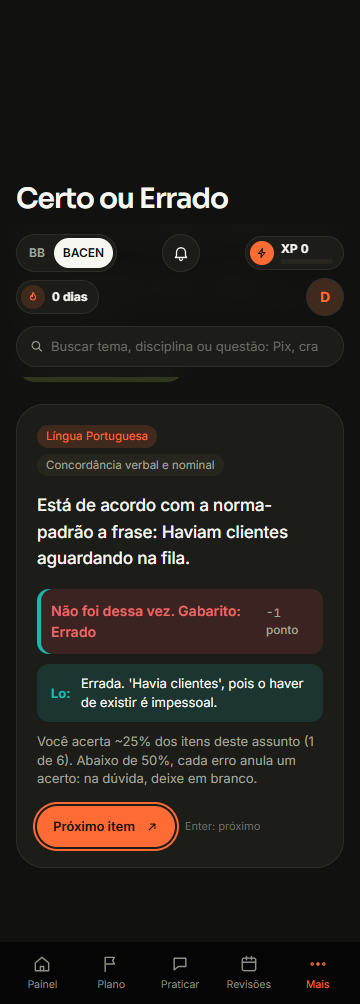
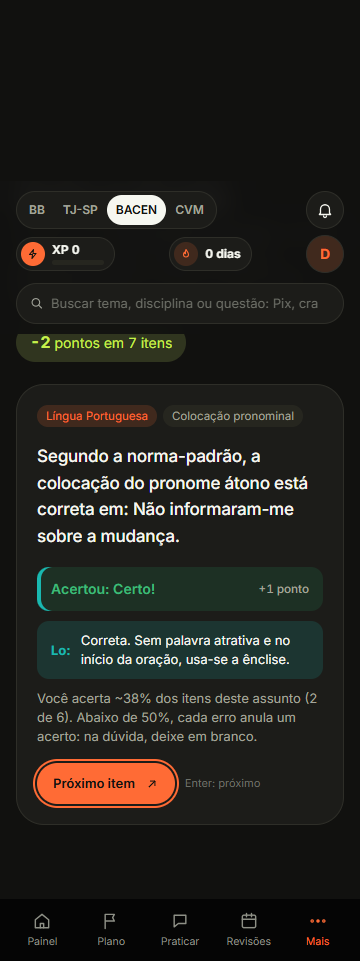
feat(concursos): abas TJ-SP (Escrevente) e CVM (Agente Executivo); lista única de concursos
IDS_CONCURSO em shared/concursos.ts: schemas (Topic, Question, ItemCE, Attempt, Rating,
Simulado, User), cabeçalho X-Concurso, abas e demo leem dela. data/concursos/tjsp.json
(Vunesp, 100 questões, 5 h; cota por matéria pendente: edital fora do acervo) e cvm.json
(banca a definir, referência FGV: Módulo I do CVM 2024). 8 matérias novas. Aba sem
matérias mostra o aviso de conteúdo chegando. e2e-concurso confere as 4 abas e espera a
carga inicial antes de trocar (corrige corrida no celular).

diff --git a/src/models.ts b/src/models.ts
@@ -9,6 +9,7 @@ export const INDICE_VETORIAL = () => process.env.VECTOR_INDEX || "chunks_vector"
 // 1. TÓPICOS — o mapa do edital. Tudo gira em torno disso.
 // ------------------------------------------------------------
 import { DISCIPLINAS, LETRAS, MOTIVOS_ERRO, type Disciplina, type Letra } from "../shared/tipos.js";
+import { IDS_CONCURSO } from "../shared/concursos.js";
 export { DISCIPLINAS, LETRAS, type Disciplina, type Letra };
 
 // Matérias normativas: só geram questão nova com fonte primária por trás.
@@ -31,7 +32,7 @@ const TopicSchema = new Schema(
     volatil: { type: Boolean, default: false },
     ativo: { type: Boolean, default: true },
     // disciplina compartilhada = um tópico só, ligado aos dois concursos (a migração põe ["bb"] nos atuais)
-    concursos: { type: [{ type: String, enum: ["bb", "bacen"] }], default: undefined, index: true },
+    concursos: { type: [{ type: String, enum: IDS_CONCURSO }], default: undefined, index: true },
     embedding: { type: [Number], select: false }, // usado para classificar trechos e questões
   },
   { timestamps: true }
@@ -110,7 +111,7 @@ const QuestionSchema = new Schema(
     origem: { type: String, enum: ["oficial", "gerada"], required: true },
     estiloBanca: { type: String, default: "cesgranrio" },
     // concurso e banca como dado (BB + BACEN): a migração preenche as antigas (BB, Cesgranrio, múltipla escolha)
-    concursos: { type: [{ type: String, enum: ["bb", "bacen"] }], default: undefined, index: true },
+    concursos: { type: [{ type: String, enum: IDS_CONCURSO }], default: undefined, index: true },
     banca: { type: String, enum: ["cesgranrio", "cebraspe", "fgv", "fcc", "vunesp"] }, // oficial: a banca da prova
     formato: { type: String, enum: ["multipla", "certo_errado"] },
     derivadaDe: { type: Schema.Types.ObjectId, ref: "Question" }, // item C/E montado de uma múltipla escolha
@@ -293,7 +294,7 @@ const AttemptSchema = new Schema(
     simuladoId: String,
     motivoErro: { type: String, enum: MOTIVOS_ERRO }, // informado pelo aluno depois do erro
     // em que concurso/banca a resposta foi dada (Elo e Desempenho por concurso); antigas = BB/Cesgranrio
-    concurso: { type: String, enum: ["bb", "bacen"] },
+    concurso: { type: String, enum: IDS_CONCURSO },
     banca: String,
   },
   { timestamps: true }
@@ -459,7 +460,7 @@ const RatingAlunoSchema = new Schema(
   {
     userId: { type: Schema.Types.ObjectId, ref: "User", required: true },
     // Elo do aluno por concurso + banca + disciplina (a migração preenche as antigas com BB/Cesgranrio)
-    concurso: { type: String, enum: ["bb", "bacen"], default: "bb" },
+    concurso: { type: String, enum: IDS_CONCURSO, default: "bb" },
     banca: { type: String, default: "cesgranrio" },
     disciplina: { type: String, enum: DISCIPLINAS, required: true },
     rating: { type: Number, required: true },
@@ -478,7 +479,7 @@ const SimuladoSchema = new Schema(
     _id: { type: String, required: true },
     userId: { type: Schema.Types.ObjectId, ref: "User", required: true, index: true },
     data: { type: Date, required: true },
-    concurso: { type: String, enum: ["bb", "bacen"], default: "bb" },
+    concurso: { type: String, enum: IDS_CONCURSO, default: "bb" },
     banca: { type: String, default: "cesgranrio" },
     diagnostico: { type: Boolean, default: false },
     tamanho: Number,
@@ -534,7 +535,7 @@ const ItemCESchema = new Schema(
   {
     topicId: { type: Schema.Types.ObjectId, ref: "Topic", required: true, index: true },
     subtopico: { type: String, index: true },
-    concursos: { type: [{ type: String, enum: ["bb", "bacen"] }], default: undefined, index: true },
+    concursos: { type: [{ type: String, enum: IDS_CONCURSO }], default: undefined, index: true },
     banca: { type: String, enum: ["cesgranrio", "cebraspe", "fgv", "fcc", "vunesp"] }, // oficial: da prova
     origem: { type: String, enum: ["oficial", "derivada", "cursinho"], required: true },
     camada: { type: String, enum: ["A", "B", "C"] },
@@ -569,7 +570,7 @@ const RespostaCESchema = new Schema(
     subtopico: String,
     resposta: { type: String, enum: ["C", "E", null], default: null },
     acertou: { type: Boolean, default: null }, // null = em branco
-    concurso: { type: String, enum: ["bb", "bacen"] },
+    concurso: { type: String, enum: IDS_CONCURSO },
     banca: String,
     tempoSeg: Number,
   },
@@ -742,7 +743,7 @@ const UserSchema = new Schema(
     ultimoLogin: Date,
     // concurso ativo (abas BB / BACEN) e, por concurso, a banca e a área escolhidas ("a_definir" = referência)
     preferencias: {
-      concursoAtivo: { type: String, enum: ["bb", "bacen"], default: "bb" },
+      concursoAtivo: { type: String, enum: IDS_CONCURSO, default: "bb" },
       bancas: { type: Map, of: String, default: undefined },
       areas: { type: Map, of: String, default: undefined },
     },

diff --git a/shared/tipos.ts b/shared/tipos.ts
@@ -3,6 +3,7 @@
 // ============================================================
 import type { DesempenhoTemaDTO } from "./desempenhoTema.js";
 import type { ResumoSimulado } from "./simulados.js";
+import type { IdConcurso } from "./concursos.js";
 export type { DesempenhoTemaDTO, ResumoSimulado };
 
 export const DISCIPLINAS = [
@@ -21,6 +22,16 @@ export const DISCIPLINAS = [
   "direito_administrativo",
   "gestao_publica",
   "suporte_tecnico_administrativo",
+  // TJ-SP Escrevente (data/concursos/tjsp.json)
+  "direito_penal",
+  "direito_processual_penal",
+  "direito_processual_civil",
+  "normas_corregedoria",
+  "atualidades",
+  // CVM Agente Executivo (data/concursos/cvm.json)
+  "mercado_valores_mobiliarios",
+  "fundamentos_direito",
+  "fluencia_dados",
 ] as const;
 export type Disciplina = (typeof DISCIPLINAS)[number];
 
@@ -39,6 +50,14 @@ export const NOME_DISCIPLINA: Record<Disciplina, string> = {
   direito_administrativo: "Direito Administrativo",
   gestao_publica: "Gestão Pública",
   suporte_tecnico_administrativo: "Suporte Técnico-Administrativo",
+  direito_penal: "Direito Penal",
+  direito_processual_penal: "Direito Processual Penal",
+  direito_processual_civil: "Direito Processual Civil",
+  normas_corregedoria: "Normas da Corregedoria Geral da Justiça",
+  atualidades: "Atualidades",
+  mercado_valores_mobiliarios: "Mercado de Valores Mobiliários",
+  fundamentos_direito: "Fundamentos de Direito",
+  fluencia_dados: "Fluência em Dados",
 };
 
 export const LETRAS = ["A", "B", "C", "D", "E"] as const;
@@ -548,7 +567,7 @@ export type MotivoContestacao = "gabarito_errado" | "duas_corretas" | "desatuali
 
 // Concursos (F5): banca em uso (ou a de referência, se "a definir") e área de cada um
 export interface ConcursoInfoDTO {
-  id: "bb" | "bacen";
+  id: IdConcurso;
   nome: string;
   cargo: string | null;
   banca: string; // id da banca ou "a_definir"

diff --git a/web/src/telas/Painel.tsx b/web/src/telas/Painel.tsx
@@ -13,9 +13,10 @@ import { Ilustracao } from "../componentes/Ilustracoes";
 import { ICheck, IDir, IEsq, ISeta, IFolha } from "../componentes/Icones";
 import { COR_DISC, CURTO, SIGLA, diasAte, pct } from "../util";
 import { Pose } from "../componentes/Pose";
+import { CONCURSOS, SIGLA_CONCURSO } from "../../../shared/concursos";
 
 export function Painel() {
-  const { painel, ajustes, ir, usuario, api } = useApp();
+  const { painel, ajustes, ir, usuario, api, concurso } = useApp();
   // 1ª visita depois de entrar (por conta; sem conta, por navegador): o Binho acena uma vez
   const chaveVisita = `lobo-boas-vindas-${usuario?.email ?? "local"}`;
   const [primeiraVisita] = useState(() => {
@@ -81,6 +82,11 @@ export function Painel() {
             {faltam !== null && faltam >= 0 && <> Faltam <b className="num">{faltam}</b> dias para a prova.</>}
             {plano?.totalSemanas && <> <button className="link" onClick={() => ir("plano")}>Semana <b className="num">{plano.semanaAtual}</b> de <b className="num">{plano.totalSemanas}</b></button></>}
           </p>
+          {!painel.topicos.length && (
+            <p className="aviso-concurso-vazio" role="note" data-testid="concurso-sem-conteudo">
+              <b>{SIGLA_CONCURSO[concurso]}: as matérias ainda estão chegando.</b> O {CONCURSOS[concurso].nome} ({CONCURSOS[concurso].cargo}) entra com o material de estudo; enquanto isso, as outras abas seguem normais.
+            </p>
+          )}
         </div>
         <button className="botao-laranja botao-grande" onClick={() => (temaHoje ? estudarTemaDoDia() : ir("praticar", trilha?.modo === "domingo" ? { revisao: true } : {}))}>
           <span aria-hidden="true">▶</span> {trilha?.modo === "domingo" && !temaHoje ? "Domingo: revisões e erros" : n > 0 ? "Continuar estudando" : "Começar agora"}

diff --git a/shared/concursos.ts b/shared/concursos.ts
@@ -2,13 +2,17 @@
 // O BB é o padrão de hoje e a estrutura dele é a mesma de antes (estruturaProva.ts lê o bb.json).
 import bb from "../data/concursos/bb.json" with { type: "json" };
 import bacen from "../data/concursos/bacen.json" with { type: "json" };
+import tjsp from "../data/concursos/tjsp.json" with { type: "json" };
+import cvm from "../data/concursos/cvm.json" with { type: "json" };
 import cesgranrio from "../data/bancas/cesgranrio.json" with { type: "json" };
 import cebraspe from "../data/bancas/cebraspe.json" with { type: "json" };
 import fgv from "../data/bancas/fgv.json" with { type: "json" };
 import fcc from "../data/bancas/fcc.json" with { type: "json" };
 import vunesp from "../data/bancas/vunesp.json" with { type: "json" };
 
-export type IdConcurso = "bb" | "bacen";
+// lista única dos concursos (abas, schemas, cabeçalho X-Concurso): concurso novo = uma linha aqui + o json dele
+export const IDS_CONCURSO = ["bb", "tjsp", "bacen", "cvm"] as const;
+export type IdConcurso = (typeof IDS_CONCURSO)[number];
 export type IdBanca = "cesgranrio" | "cebraspe" | "fgv" | "fcc" | "vunesp";
 export type FormatoItem = "multipla" | "certo_errado";
 // camada do material: A = prova oficial/gabarito definitivo/edital/lei vigente; B = material oficial; C = cursinho
@@ -34,7 +38,9 @@ export const BANCAS: Record<IdBanca, Banca> = {
   vunesp: vunesp as Banca,
 };
 
-export const CONCURSOS = { bb, bacen } as const;
+export const CONCURSOS = { bb, tjsp, bacen, cvm } as const;
+// nome curto da aba
+export const SIGLA_CONCURSO: Record<IdConcurso, string> = { bb: "BB", tjsp: "TJ-SP", bacen: "BACEN", cvm: "CVM" };
 export const CONCURSO_PADRAO: IdConcurso = "bb";
 
 // banca em uso num concurso: a escolhida pelo aluno; "a_definir" estuda no estilo da banca de referência

diff --git a/scripts/e2e-concurso.ts b/scripts/e2e-concurso.ts
@@ -1,5 +1,5 @@
 // E2E da F5 (abas BB/BACEN) no Edge, com a API simulada no próprio teste (nada toca no progresso real):
-// a aba BB vem marcada → clica BACEN → os pedidos seguintes vão com X-Concurso: bacen e a lista de tópicos
+// a aba BB vem marcada (as abas TJ-SP e CVM também existem) → clica BACEN → os pedidos seguintes vão com X-Concurso: bacen e a lista de tópicos
 // muda → recarregar a página mantém o BACEN → Ajustes mostra o BACEN "Em estudo" com o aviso da banca
 // de referência → "Estudar este" no BB volta para o BB. Prints 1440 e 360 em docs/telas/concurso/.
 // uso: npx tsx scripts/e2e-concurso.ts   (com o servidor "bb-web" :5182 de pé)
@@ -59,10 +59,13 @@ try {
     const bacen = p.locator("[data-testid=aba-bacen]");
     await bb.waitFor();
     assert.equal(await bb.getAttribute("aria-selected"), "true", "BB marcado de início");
+    assert.deepEqual(await p.locator(".seletor-concurso [role=tab]").allInnerTexts(), ["BB", "TJ-SP", "BACEN", "CVM"], "as quatro abas");
     await p.waitForFunction(() => document.body.innerText.includes("Vendas"));
     assert.ok(cabecalhos.some((c) => c.caminho === "/api/painel" && c.concurso === "bb"), "painel pedido com X-Concurso: bb");
 
-    // troca para o BACEN: pedidos novos com bacen e a matéria muda
+    // troca para o BACEN: pedidos novos com bacen e a matéria muda (espera a carga inicial acabar, senão um
+    // pedido do BB que começou antes do clique aparece depois dele)
+    await p.waitForLoadState("networkidle");
     const antes = cabecalhos.length;
     await bacen.click();
     await p.waitForFunction(() => document.querySelector("[data-testid=aba-bacen]")?.getAttribute("aria-selected") === "true");

diff --git a/web/src/util.ts b/web/src/util.ts
@@ -18,6 +18,14 @@ export const SIGLA: Record<Disciplina, string> = {
   direito_administrativo: "DA",
   gestao_publica: "GP",
   suporte_tecnico_administrativo: "ST",
+  direito_penal: "DP",
+  direito_processual_penal: "PP",
+  direito_processual_civil: "PC",
+  normas_corregedoria: "NC",
+  atualidades: "AT",
+  mercado_valores_mobiliarios: "MV",
+  fundamentos_direito: "FD",
+  fluencia_dados: "FL",
 };
 
 // Nome curto para os cartões (quebra em duas linhas, como no layout)
@@ -36,6 +44,14 @@ export const CURTO: Record<Disciplina, string> = {
   direito_administrativo: "Direito\nAdministrativo",
   gestao_publica: "Gestão\nPública",
   suporte_tecnico_administrativo: "Suporte\nTéc.-Adm.",
+  direito_penal: "Direito\nPenal",
+  direito_processual_penal: "Processo\nPenal",
+  direito_processual_civil: "Processo\nCivil",
+  normas_corregedoria: "Normas da\nCorregedoria",
+  atualidades: "Atualidades",
+  mercado_valores_mobiliarios: "Mercado de\nCapitais",
+  fundamentos_direito: "Fundamentos\nde Direito",
+  fluencia_dados: "Fluência\nem Dados",
 };
 
 export const COR_DISC: Record<Disciplina, string> = {
@@ -54,6 +70,15 @@ export const COR_DISC: Record<Disciplina, string> = {
   direito_administrativo: "#5ab4f0",
   gestao_publica: "#f5c542",
   suporte_tecnico_administrativo: "#e6e1d6",
+  // TJ-SP e CVM: mesma paleta, sem cor nova
+  direito_penal: "#f05a9a",
+  direito_processual_penal: "#f08a5a",
+  direito_processual_civil: "#59d1c4",
+  normas_corregedoria: "#e6e1d6",
+  atualidades: "#5ab4f0",
+  mercado_valores_mobiliarios: "#ff5b1f",
+  fundamentos_direito: "#8b7cf6",
+  fluencia_dados: "#4fc98a",
 };
 
 export const pct = (x: number) => `${Math.round(x * 100)}%`;

diff --git a/web/src/api/demo.ts b/web/src/api/demo.ts
@@ -38,7 +38,7 @@ import { ehDiagnostico, MISTURA_DIAGNOSTICO, PREFIXO_DIAGNOSTICO, ratingDoDiagno
 import { reprocessar, type EventoRating, pesoPorProximidade, ratingInicialQuestao, ALVO_ACIMA, RATING_ALUNO_INICIAL } from "../../../shared/rating";
 import { fatorNaoSabia, naoSabiaPorTopico, palavrasDecisivas, MENSAGEM_MOTIVO, REVISAO_CHUTE_MIN, TEMPO_ALVO_SEG } from "../../../shared/aprendizado";
 import { classificarPorCodigo, concursosDoTopico, SUBTOPICO_POR_ID } from "../../../shared/subtopicos";
-import { BANCAS, CONCURSOS, type IdBanca } from "../../../shared/concursos";
+import { BANCAS, CONCURSOS, IDS_CONCURSO, type IdBanca } from "../../../shared/concursos";
 import { corrigirCE, derivarItens, recomendarBranco } from "../../../shared/certoErrado";
 import { concursoAtivo } from "../concursoAtivo";
 import { concursosDoTema, linkYoutube, MINIMO_NOVAS, MISTAS_FIM, situacaoTrilha, tamanhoSessao, TRILHA, type InicioTrilha } from "../../../shared/trilha";
@@ -260,7 +260,7 @@ export const apiDemo: Api = {
 
   topicos: () => espera(topicosAtivos()),
 
-  concursos: () => espera((["bb", "bacen"] as const).map((id) => {
+  concursos: () => espera(IDS_CONCURSO.map((id) => {
     const j = CONCURSOS[id] as { nome: string; cargo?: string; bancaPadrao: string; bancaReferencia?: string; areas?: { id: string; nome: string }[] };
     const aDefinir = j.bancaPadrao === "a_definir";
     const emUso = aDefinir ? j.bancaReferencia ?? "cebraspe" : j.bancaPadrao;

diff --git a/src/server.ts b/src/server.ts
@@ -24,6 +24,7 @@ import { apiServidor } from "./estudo.js";
 import { garantirIndiceElo } from "./migracaoConcursos.js";
 import { caminhoMaterial } from "./temas.js";
 import { ajustarConcurso, carregarConfigConcursos, historicoConcursos, infoConcursos } from "./concursosConfig.js";
+import type { IdConcurso } from "../shared/concursos.js";
 import { DISCIPLINAS, LETRAS, MOTIVOS_ERRO, type Confianca, type Disciplina, type Letra, type Modo, type MotivoContestacao, type MotivoErro, type NotaCartao } from "../shared/tipos.js";
 
 const app = express();
@@ -143,7 +144,7 @@ app.post("/api/admin/concursos", rota(async (req, res) => {
   const campo = b.campo === "area" ? "area" : b.campo === "banca" ? "banca" : null;
   if (!campo) return res.status(400).json({ erro: "Campo inválido." });
   try {
-    const r = await ajustarConcurso(String(b.concurso) as "bb" | "bacen", campo, String(b.para ?? ""), String(b.motivo ?? ""), usuarioAtual()?.email ?? "dono");
+    const r = await ajustarConcurso(String(b.concurso) as IdConcurso, campo, String(b.para ?? ""), String(b.motivo ?? ""), usuarioAtual()?.email ?? "dono");
     res.json({ ...r, concursos: infoConcursos(), historico: historicoConcursos() });
   } catch (e) {
     res.status(400).json({ erro: (e as Error).message });

diff --git a/web/src/App.tsx b/web/src/App.tsx
@@ -1,5 +1,6 @@
 import { lazy, Suspense, useEffect, useMemo, useRef, useState, type ComponentType } from "react";
 import { useApp, type Tela } from "./estado";
+import { CONCURSOS, IDS_CONCURSO, SIGLA_CONCURSO } from "../../shared/concursos";
 import { Pose } from "./componentes/Pose";
 import {
   IAlvo, IBalao, IBandeira, ICalendario, ICartoes, ICasa, ICheck, IEngrenagem, IEscudo, IFogo, ILupa, IMais, IRaio, IRedacao, ISeta, ISino, ITrofeu,
@@ -230,9 +231,9 @@ function SeletorConcurso() {
   const { concurso, trocarConcurso } = useApp();
   return (
     <div className="seletor-concurso" role="tablist" aria-label="Concurso">
-      {(["bb", "bacen"] as const).map((c) => (
-        <button key={c} role="tab" aria-selected={concurso === c} className={concurso === c ? "ativo" : ""} onClick={() => trocarConcurso(c)} data-testid={`aba-${c}`}>
-          {c.toUpperCase()}
+      {IDS_CONCURSO.map((c) => (
+        <button key={c} role="tab" aria-selected={concurso === c} className={concurso === c ? "ativo" : ""} onClick={() => trocarConcurso(c)} data-testid={`aba-${c}`} title={`${CONCURSOS[c].nome}: ${CONCURSOS[c].cargo}`}>
+          {SIGLA_CONCURSO[c]}
         </button>
       ))}
     </div>

diff --git a/src/rating.ts b/src/rating.ts
@@ -5,6 +5,7 @@ import { Types } from "mongoose";
 import { Attempt, Question, RatingAluno, Topic } from "./models.js";
 import { dificuldadeDoRating, ratingInicialQuestao, reprocessar, RESPOSTAS_PARA_CALIBRAR } from "../shared/rating.js";
 import type { Confianca, Disciplina } from "../shared/tipos.js";
+import type { IdConcurso } from "../shared/concursos.js";
 
 // Recalcula tudo a partir das tentativas (idempotente: grava valores absolutos, não soma)
 export async function migrarRatings() {
@@ -23,7 +24,7 @@ export async function migrarRatings() {
     const [userId, concurso, banca, d] = chave.split("|");
     if (d === "?") continue;
     const disciplina = d as Disciplina;
-    await RatingAluno.updateOne({ userId: new Types.ObjectId(userId), concurso: concurso as "bb" | "bacen", banca, disciplina }, { $set: { rating: a.rating, n: a.n } }, { upsert: true });
+    await RatingAluno.updateOne({ userId: new Types.ObjectId(userId), concurso: concurso as IdConcurso, banca, disciplina }, { $set: { rating: a.rating, n: a.n } }, { upsert: true });
     alunos++;
   }
   return { tentativas: tents.length, questoes: global.questoes.size, alunos };

diff --git a/web/src/estilos.css b/web/src/estilos.css
@@ -1316,6 +1316,9 @@ h1, h2, h3, .marca, .titulo-tela { font-family: var(--fonte-titulo); }
 .ce-recomendacao-depois { margin: -6px 0 14px; color: var(--suave); font-size: 13px; max-width: 68ch; }
 .resultado-faixa.branco { background: var(--atencao-fundo); color: var(--atencao-texto); box-shadow: inset 4px 0 0 var(--lo); }
 .ce-filtro { margin: 6px 0 0; font-size: 14px; }
+/* aba de concurso ainda sem matérias (TJ-SP e CVM até o material chegar) */
+.aviso-concurso-vazio { margin: 12px 0 0; padding: 10px 14px; border-radius: 12px; max-width: 68ch; background: var(--binho-fundo); box-shadow: inset 4px 0 0 var(--binho); }
+.aviso-concurso-vazio b { color: var(--binho-texto); }
 .ce-placar { padding: 8px 14px; border-radius: 999px; background: var(--verde-fundo); color: var(--verde-texto); font-size: 14px; }
 .ce-placar b { font-size: 16px; }
 @media (max-width: 520px) { .ce-botoes button { flex: 1 1 100%; justify-content: center; } .ce-afirmacao { font-size: 17px; } }

diff --git a/src/ingestao.ts b/src/ingestao.ts
@@ -52,7 +52,7 @@ import {
 } from "./prompts.js";
 import { buscarFontesPorConsulta, geracoesHoje, tetoDiario } from "./pipeline.js";
 import { MOTIVOS_REPETICAO } from "./similaridade.js";
-import { BANCAS, type IdBanca } from "../shared/concursos.js";
+import { BANCAS, IDS_CONCURSO, type IdBanca } from "../shared/concursos.js";
 
 const ehDisciplina = (s: string): s is Disciplina => (DISCIPLINAS as readonly string[]).includes(s);
 
@@ -108,7 +108,7 @@ const TopicoItemZ = z.object({
   descricao: z.string().optional(),
   questoesNaProva: z.number().int().positive().nullish(),
   volatil: z.boolean().default(false),
-  concursos: z.array(z.enum(["bb", "bacen"])).optional(), // ausente = não mexe (a árvore de subtópicos liga)
+  concursos: z.array(z.enum(IDS_CONCURSO)).optional(), // ausente = não mexe (a árvore de subtópicos liga)
 });
 const ArquivoTopicosZ = z.object({ disciplinas: z.record(z.string(), z.array(TopicoItemZ)) });
 
